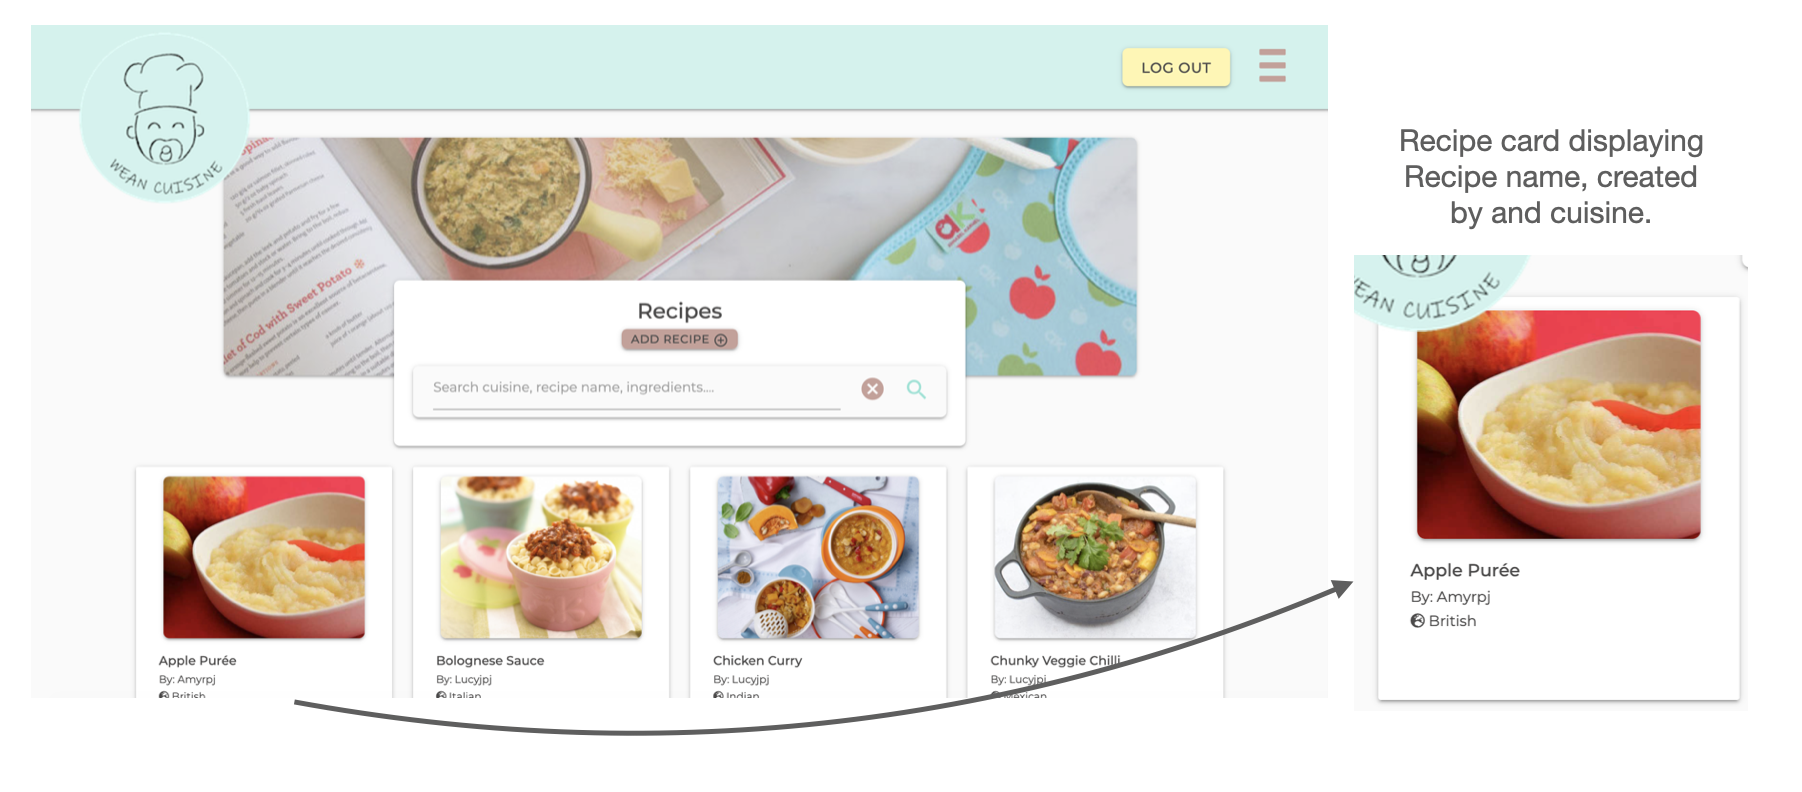
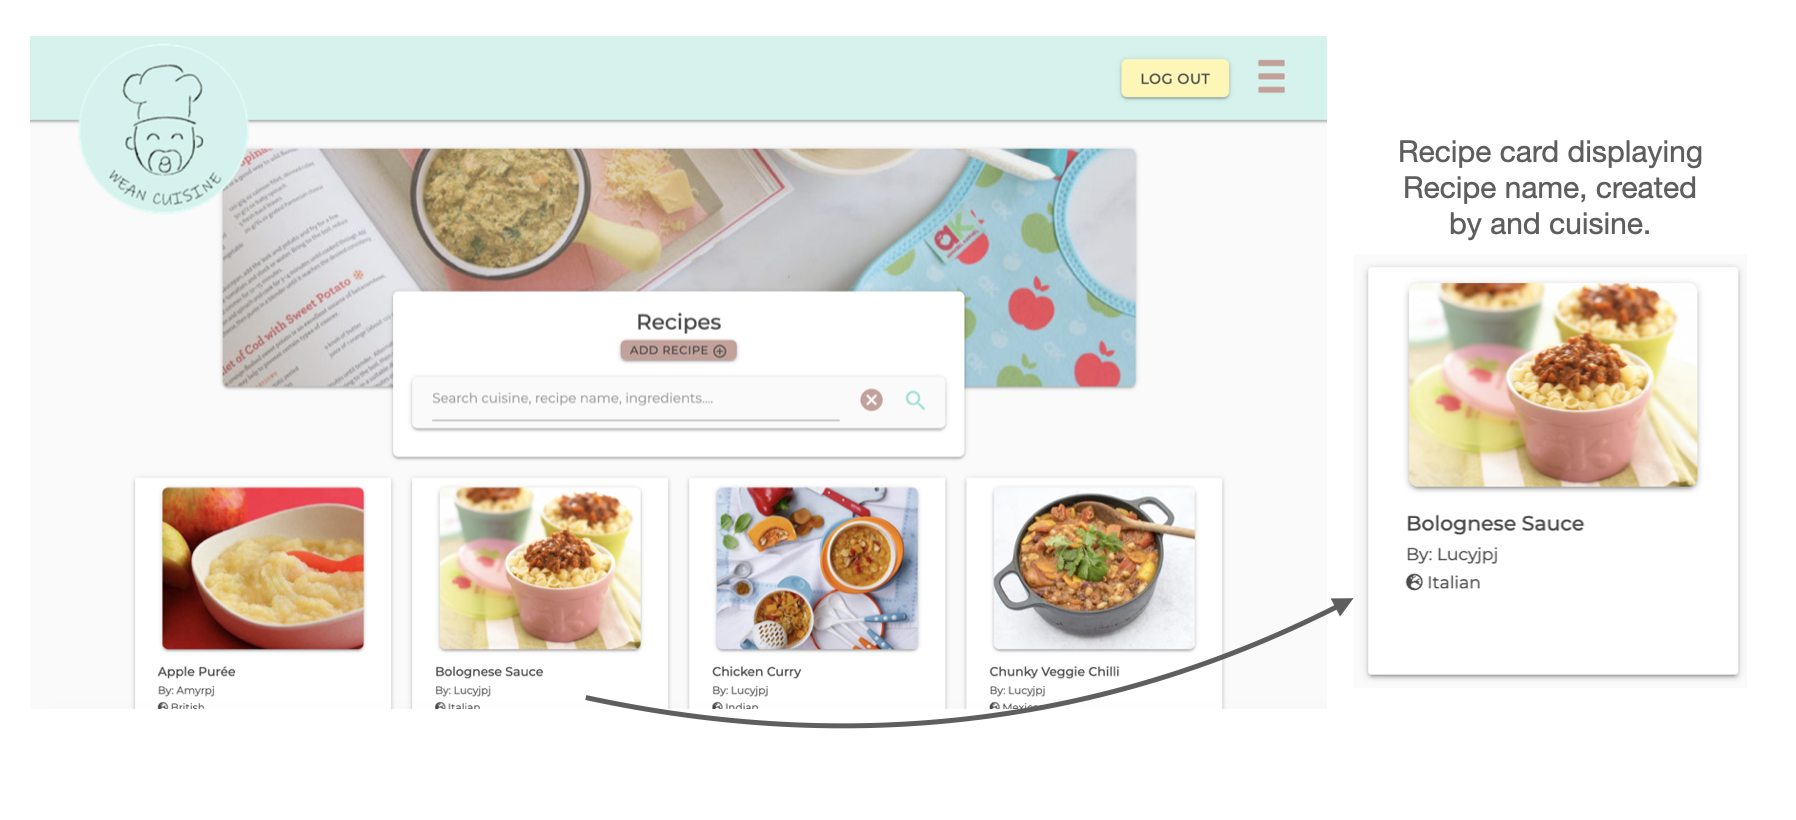
view recipe image and content added to user stories testing

diff --git a/testing.md b/testing.md
@@ -45,7 +45,7 @@ Testing my site member's <u>key priorities</u>:
 
 ![Tooltips](static/assets/images/readme/tooltip.png)
 
-- User responses included notifying the user if any errors or successful:
+- User responses including notifying the user of any errors or successful:
   - Errors are shown below password in modal
   - Success messages presented as a toast after the modal closes.
 
@@ -61,9 +61,12 @@ Testing my site member's <u>key priorities</u>:
     ![Explore recipes nav ](static/assets/images/readme/recipes-nav.png)
 
 - The recipe page contains recipe cards displaying recipe image, recipe name, cuisine, and who the recipe was created by.
-   - The user can click onto the recipe card to view more details including age range, serving, time, food course, ingredients, and method.
 
     ![Recipes page](static/assets/images/readme/recipe-page.png)
+
+- The user can click onto a recipe card to direct them to the view recipe page which provides more details including age range, serving, time, food course, ingredients, and method.
+
+    ![View recipes page](static/assets/images/readme/v-recipe-page.png)
 
 **4. Clear recipe categorisation and search bar to allow quick browsing**
 
